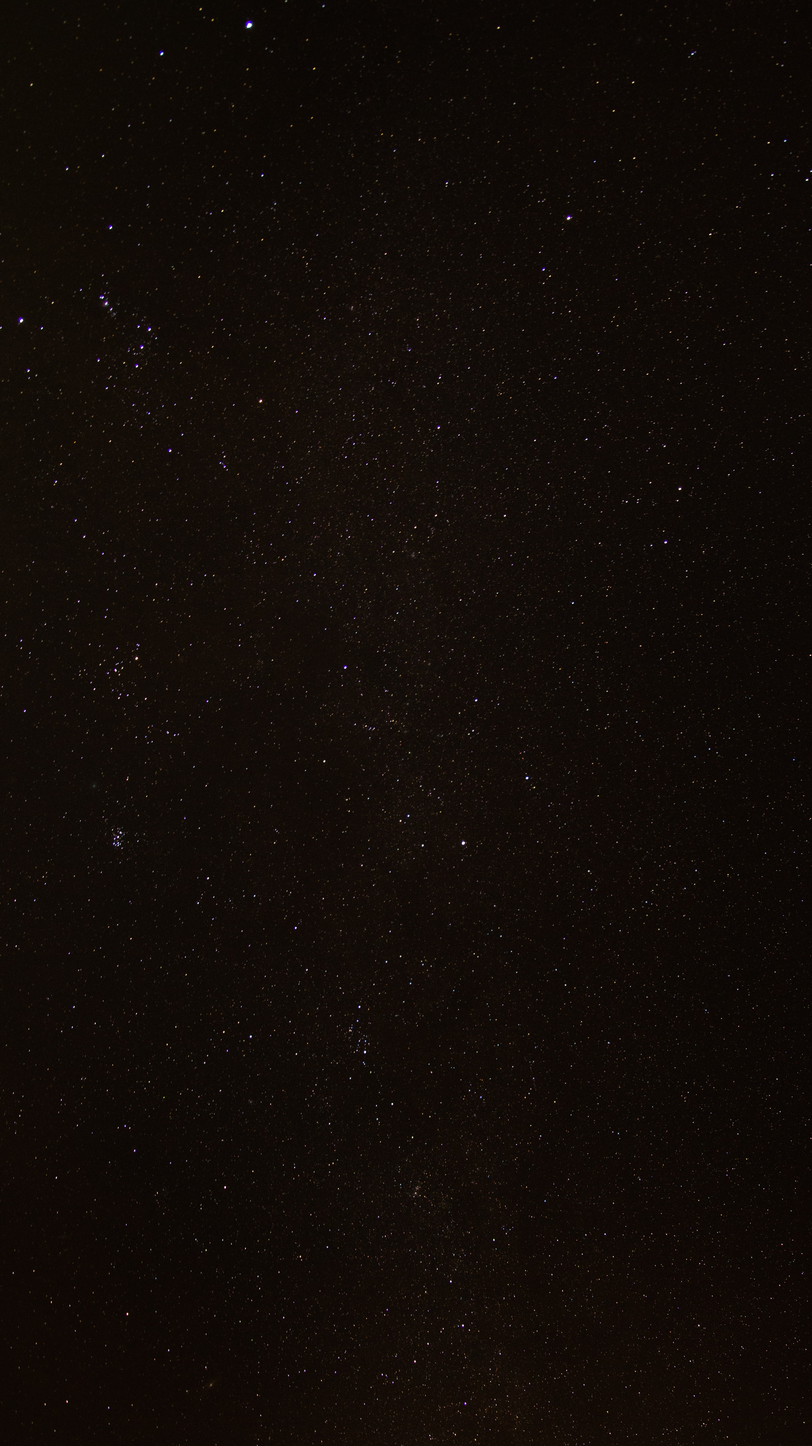
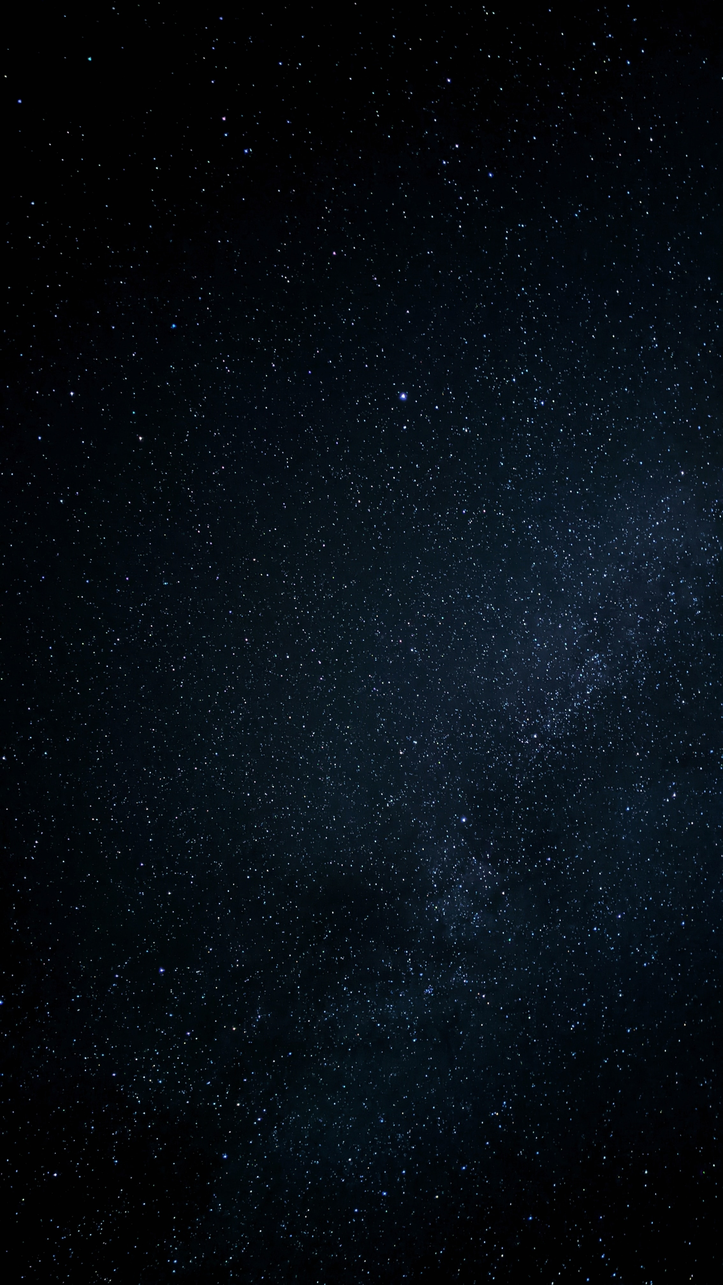
some minor adjustments

diff --git a/src/index.css b/src/index.css
@@ -8,8 +8,8 @@
   font-weight: 400;
   color-scheme: light dark;
   color: var(--green);
-  background: radial-gradient(80vw 350vh at 50% 300vh, var(--dark-green), 70%, transparent), linear-gradient(black, 30%, transparent, 70%, black), url(../public/stars-back.jpg);
-  background-size: contain;
+  background: radial-gradient(80vw 350vh at 50% 300vh, var(--dark-green), 70%, transparent), linear-gradient(black, 30%, transparent, 70%, black), url(../public/stars-back.jpg) center var(--background-top-position, 0) fixed;
+  background-color: cover;
   font-synthesis: none;
   text-rendering: optimizeLegibility;
   -webkit-font-smoothing: antialiased;
@@ -146,7 +146,10 @@ a:hover {
   background: radial-gradient(2rem at var(--splash-light-x, 60%) var(--splash-light-y, 20%), var(--white), transparent), url(./earth.svg) var(--green);
   background-size: cover;
   transform: translateY(var(--light-transform, 0px)) rotateZ(var(--light-rotate, 0deg));
-  animation: glowing 3s ease-out infinite;
+  animation: glowing 5s ease-out infinite;
+}
+#carousel .light_through:hover {
+  animation-duration: 2s;
 }
 #carousel .light_through::after {
   content: "";

diff --git a/src/index.scss b/src/index.scss
@@ -15,8 +15,8 @@
     color: var(--green);
     background: radial-gradient(80vw 350vh at 50% 300vh, var(--dark-green), 70%, transparent),
                 linear-gradient(black, 30%, transparent, 70%, black),
-                url(../public/stars-back.jpg);
-    background-size: contain;
+                url(../public/stars-back.jpg) center var(--background-top-position, 0) fixed;
+    background-color: cover;
 
     font-synthesis: none;
     text-rendering: optimizeLegibility;
@@ -170,7 +170,10 @@ a {
 
         transform: translateY(var(--light-transform, 0px)) rotateZ(var(--light-rotate, 0deg));
 
-        animation: glowing 3s ease-out infinite;
+        animation: glowing 5s ease-out infinite;
+        &:hover {
+            animation-duration: 2s;
+        }
         &::after {
             content: "";
             position: absolute;

diff --git a/src/App.jsx b/src/App.jsx
@@ -44,7 +44,12 @@ function App() {
             '--splash-light-x': 60 - 40 * scrollProgress + "%",
             '--splash-light-y': 20 * Math.abs(scrollProgress - 0.5) + "%",
           })
+          gsap.to(":root", {
+            '--background-top-position': scrollProgress > 0.1 ? 10 * (scrollProgress - 0.1) + "%" : 0
+          })
     }
+
+
     document.addEventListener("scroll", handleScroll)
     return () => document.removeEventListener("mousemove", handleScroll)
   }, [])
@@ -57,7 +62,7 @@ function App() {
           {
             projects.map(elem => {
               return (
-                <Project imageUrl={elem.imgUrl} />
+                <Project imageUrl={elem.imgUrl} key={elem.id} />
               )
             })
           }
